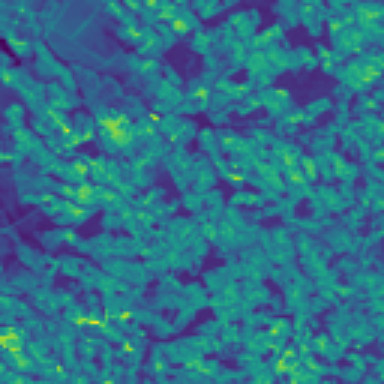
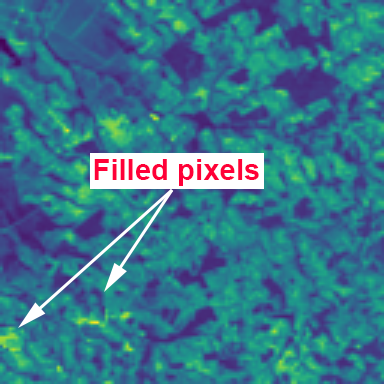
Docs almost finished..

diff --git a/README.md b/README.md
@@ -30,7 +30,7 @@ The architecture extends DCSCN by allowing a dynamic number of input images to c
 The diagram below is a summary of the proposed architecture. 
 This is the original design from the DCSCN repo with the modifications shown in the RED box.  
 
-<!-- ![Louis MISR Architecture](docs/img/architecture.png) -->
+![Louis MISR Architecture](docs/img/architecture.png)
 
 * The Louis MISR constructs N branches of the **"feature extraction network"**, and provides all outputs to the
 first **"concatenate"** layer.
@@ -38,7 +38,8 @@ first **"concatenate"** layer.
 is utilised to build the final output image. 
 * The first image from the choices of LR images is used for the "bicubic up-sampling". 
 During training, this image is randomly chosen each iteration.
-* I also added a handy new MISR dataset factory, as I felt the original code for handling datasets was a little clunky. 
+* I also added a handy new MISR dataset factory, as I felt the original code for handling datasets was a little
+ clunky. Check out [dataset_factory_misr.py](submodules/dcscn_super_resolution/helper/dataset_factory_misr.py) 
 
 You can observe my additions to the DCSCN code by checking out the commit history of my fork of the repo 
 [here](https://github.com/louisquinn/dcscn_super_resolution/commits/7a5b24673f927b3eb9ad20b680fa04bb8a34d9d8).
@@ -91,9 +92,13 @@ The quality maps give information of which pixels of the image is obscructed by 
 We can utilise the multiple views of each scene to fill the obscured pixels with the mean, 
 or median of all the scene's LR images (aggregated image). This process is detailed below:
 
-Original Image | Quality Map | Aggregate Image of LR images | Final result
------------- | ------------- | ------------- | ------------- 
-![orig](docs/img/preprocessing/original_image.png) | ![orig](docs/img/preprocessing/quality_map.png) | ![orig](docs/img/preprocessing/agg_image.png) | ![orig](docs/img/preprocessing/final_image.png)
+Aggregate Image of LR images | Quality Map | 
+------------ | -------------  
+![orig](docs/img/preprocessing/agg_image.png) | ![orig](docs/img/preprocessing/quality_map.png)
+
+Original Image | Final Result
+------------- | ------------- 
+![orig](docs/img/preprocessing/original_image.png) | ![orig](docs/img/preprocessing/final_image.png)
 
 #### Image Registration 
 **NOTE: This is not fully implemented, however it is available**
